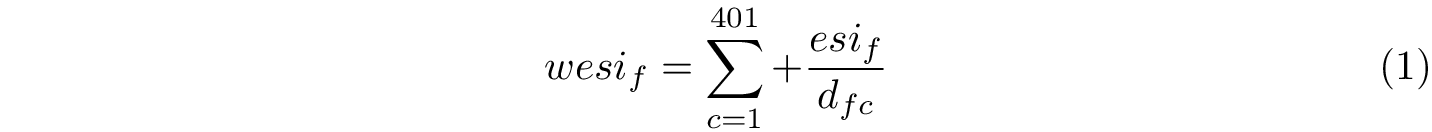
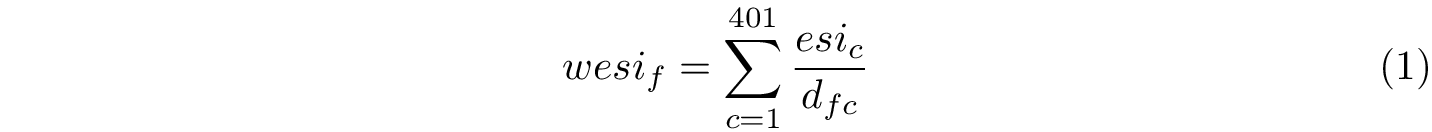
Edit: typo(s) in formula

diff --git a/docs/Trivial-Statistics/eq/001_wesi.tex b/docs/Trivial-Statistics/eq/001_wesi.tex
@@ -5,6 +5,6 @@
 \usepackage{amsmath}
 \begin{document}
   \begin{equation} \tag{1}
-    wesi_f=\sum_{c=1}^{401}+\frac{esi_f}{d_{fc}}
+    wesi_f=\sum_{c=1}^{401}\frac{esi_c}{d_{fc}}
   \end{equation}
 \end{document}
